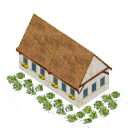
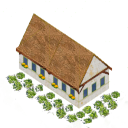
Grass

Changed region(s): [[0.1875, 0.6875, 0.2812, 0.7812], [0.4375, 0.8438, 0.5312, 0.9375]]

diff --git a/view/field_buffer.go b/view/field_buffer.go
@@ -25,6 +25,8 @@ func renderField(cv *canvas.Canvas, c *controller.Controller, f *navigation.Fiel
 			cv.SetFillStyle(filepath.FromSlash("texture/terrain/grass_winter_" + strconv.Itoa(int(f.Terrain.Shape)) + ".png"))
 		} else if season == 2 {
 			cv.SetFillStyle(filepath.FromSlash("texture/terrain/grass_fall_" + strconv.Itoa(int(f.Terrain.Shape)) + ".png"))
+		} else if season == 0 {
+			cv.SetFillStyle(filepath.FromSlash("texture/terrain/grass_spring_" + strconv.Itoa(int(f.Terrain.Shape)) + ".png"))
 		} else {
 			cv.SetFillStyle(filepath.FromSlash("texture/terrain/grass_" + strconv.Itoa(int(f.Terrain.Shape)) + ".png"))
 		}
@@ -53,6 +55,8 @@ func renderField(cv *canvas.Canvas, c *controller.Controller, f *navigation.Fiel
 				cv.SetFillStyle(filepath.FromSlash("texture/terrain/grass_winter_" + strconv.Itoa(int(f.Terrain.Shape)) + ".png"))
 			} else if season == 2 {
 				cv.SetFillStyle(filepath.FromSlash("texture/terrain/grass_fall_" + strconv.Itoa(int(f.Terrain.Shape)) + ".png"))
+			} else if season == 0 {
+				cv.SetFillStyle(filepath.FromSlash("texture/terrain/grass_spring_" + strconv.Itoa(int(f.Terrain.Shape)) + ".png"))
 			} else {
 				cv.SetFillStyle(filepath.FromSlash("texture/terrain/grass_" + strconv.Itoa(int(f.Terrain.Shape)) + ".png"))
 			}

diff --git a/model/map.go b/model/map.go
@@ -118,7 +118,8 @@ func (m *Map) ElapseTime() {
 			}
 			if (m.Calendar.Season() == time.Autumn && 50-(m.Calendar.Hour+(m.Calendar.Day-1)*24) <= f.Base()) ||
 				(m.Calendar.Season() == time.Spring && (m.Calendar.Hour+(m.Calendar.Day-1)*24) >= f.Base()) ||
-				(m.Calendar.Season() == time.Winter && 50-(m.Calendar.Hour+(m.Calendar.Day-1)*24) <= f.Base()) {
+				(m.Calendar.Season() == time.Winter && 50-(m.Calendar.Hour+(m.Calendar.Day-1)*24) <= f.Base()) ||
+				(m.Calendar.Season() == time.Summer && (m.Calendar.Hour+(m.Calendar.Day-1)*24) >= f.Base()) {
 				f.Terrain.Season = m.Calendar.Season()
 			}
 		}
